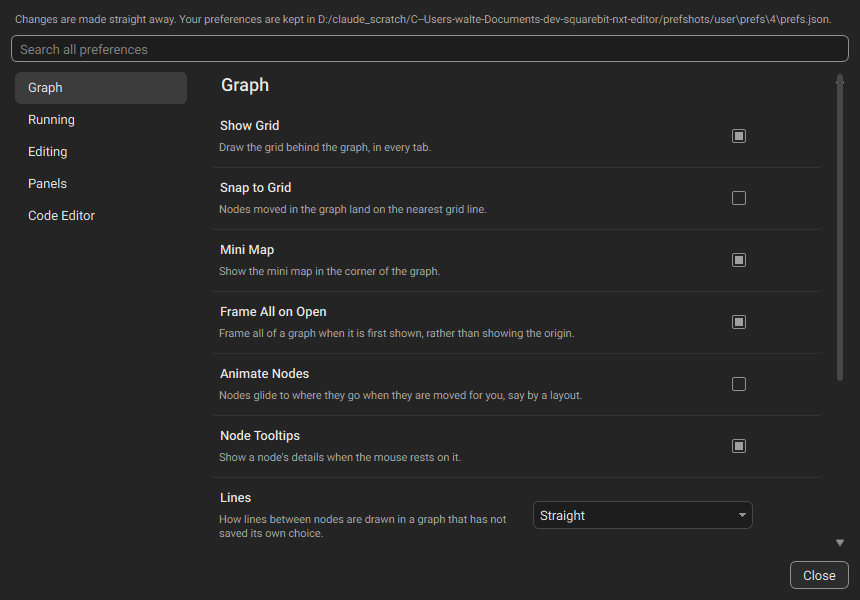
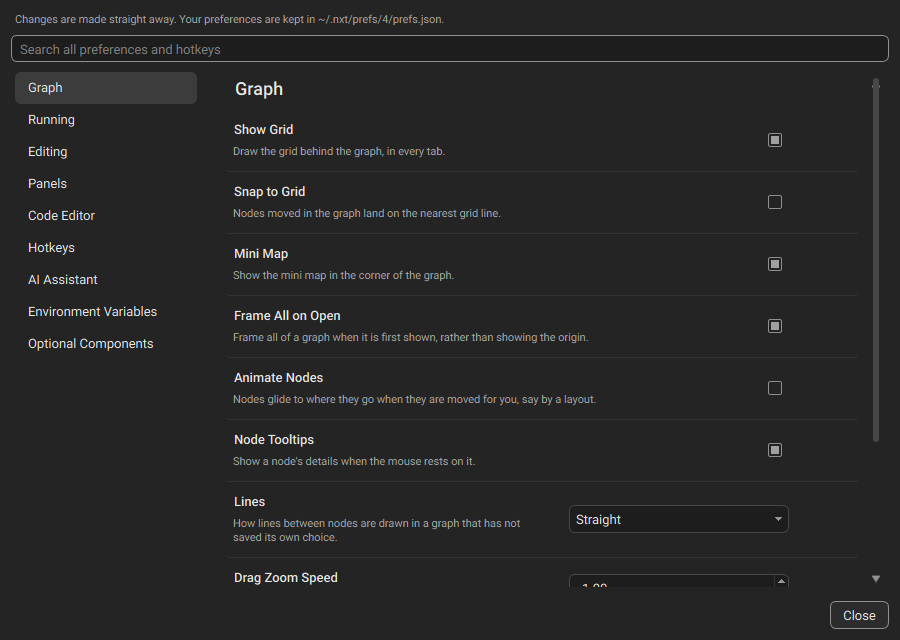
Docs and messages for Edit > Preferences
Every page, message and comment that sent people to the Options menu
now names Edit > Preferences and the section or page, and What's New
says what moved. Hotkeys has a picture and how to record one, and the
Preferences, search, Environment Variables, Optional Components and
Autocomplete pictures are retaken.

Claude-Session: https://claude.ai/code/session_01L3sBgXZyPfyXoG9XL5jphw

diff --git a/nxt_editor/ai/providers.py b/nxt_editor/ai/providers.py
@@ -75,8 +75,8 @@ PLAN_ERRORS = {
         'ChatGPT could not check your plan just now. Try again in a '
         'minute.',
     'subscription_sharing_invalid_user':
-        'ChatGPT did not accept your sign in. Sign in again in Options > '
-        'AI Assistant.',
+        'ChatGPT did not accept your sign in. Sign in again in Edit > '
+        'Preferences > AI Assistant.',
     'subscription_sharing_unsupported_capability':
         'A ChatGPT plan can not do part of this request.',
     'subscription_sharing_route_not_supported':
@@ -100,11 +100,11 @@ def explain(err, label, auth=None):
     if err.status in (401, 403):
         if kind == WEB:
             return ('{} did not accept your sign in. Sign in again in '
-                    'Options > AI Assistant. ({})'.format(label, err))
+                    'Edit > Preferences > AI Assistant. ({})'.format(label, err))
         if kind in (KEY, ENV):
             where = auth.label if kind == ENV else 'the saved API key'
             return ('{} did not accept {}. Check the key, or paste a new '
-                    'one in Options > AI Assistant. ({})'.format(
+                    'one in Edit > Preferences > AI Assistant. ({})'.format(
                         label, where, err))
     if err.status == 429:
         return ('{} says too many requests or the plan is used up. Wait a '
@@ -295,13 +295,13 @@ class Provider(object):
             return record
         if not record.get('refresh_token'):
             raise AuthError('Your {} sign in ran out. Sign in again in '
-                            'Options > AI Assistant.'.format(self.label))
+                            'Edit > Preferences > AI Assistant.'.format(self.label))
         try:
             record = self._refresh(record)
         except web.WebError as err:
             if err.status in (400, 401, 403):
                 raise AuthError('Your {} sign in ran out. Sign in again in '
-                                'Options > AI Assistant.'.format(self.label))
+                                'Edit > Preferences > AI Assistant.'.format(self.label))
             raise
         self.store.set(self._web_name, record)
         return record
@@ -326,7 +326,7 @@ class Provider(object):
         auth = auth or self.auth()
         if not auth:
             raise AuthError('{} is not set up. Sign in or add an API key in '
-                            'Options > AI Assistant.'.format(self.label))
+                            'Edit > Preferences > AI Assistant.'.format(self.label))
         return auth
 
     def list_models(self, auth=None):
@@ -776,10 +776,10 @@ class Codex(Provider):
         if not auth:
             if not self.cli:
                 raise AuthError('Codex is not installed. Install it, then '
-                                'sign in with Codex in Options > AI '
+                                'sign in with Codex in Edit > Preferences > AI '
                                 'Assistant.')
             raise AuthError('Codex is not signed in. Sign in with Codex in '
-                            'Options > AI Assistant.')
+                            'Edit > Preferences > AI Assistant.')
         return auth
 
     def start_sign_in(self):
@@ -978,7 +978,7 @@ class Local(Provider):
     def _require_auth(self, auth):
         auth = auth or self.auth()
         if not auth:
-            raise AuthError('Choose a local server in Options > AI '
+            raise AuthError('Choose a local server in Edit > Preferences > AI '
                             'Assistant.')
         return auth
 

diff --git a/nxt_editor/dockwidgets/ai_assistant.py b/nxt_editor/dockwidgets/ai_assistant.py
@@ -1,7 +1,7 @@
 """The AI Assistant panel: chat with Claude, OpenAI or Grok about the graph.
 
 Only in the Window menu once the assistant is turned on in
-Options > AI Assistant. Every chat is kept, so New Chat does not lose the
+Edit > Preferences > AI Assistant. Every chat is kept, so New Chat does not lose the
 last one. The list of chats goes back to any of them, and right clicking
 one pins it to the top or deletes it.
 
@@ -254,7 +254,7 @@ class AiAssistant(DockWidgetBase):
         self.always_button = _button('Always allow', 'aiGhost')
         self.always_button.setToolTip(
             'Let it read this folder in every chat. It is remembered in '
-            'Options > AI Assistant > Memory, where you can take it back.')
+            'Edit > Preferences > AI Assistant > Memory, where you can take it back.')
         self.always_button.clicked.connect(
             lambda: self.answer_access(tools.ALWAYS))
         self.deny_button = _button('Deny', 'aiGhost')

diff --git a/nxt_editor/commands.py b/nxt_editor/commands.py
@@ -1145,7 +1145,7 @@ class RevertNode(DeleteNode):
 
 def refactor_attr_rename(stage):
     """Whether renaming an attr updates the tokens that point at it: on
-    unless turned off in Options, and with an nxt_core that can."""
+    unless turned off in Preferences, and with an nxt_core that can."""
     return (hasattr(stage, 'get_attr_ref_changes') and
             user_dir.user_prefs.get(user_dir.USER_PREF.REFACTOR_ATTR_RENAME,
                                     True))
@@ -1153,7 +1153,7 @@ def refactor_attr_rename(stage):
 
 def refactor_instance_paths(stage):
     """Whether parenting nodes updates the instance paths that point at
-    them: on unless turned off in Options, and with an nxt_core that
+    them: on unless turned off in Preferences, and with an nxt_core that
     can."""
     return (hasattr(stage, 'retarget_instance_paths') and
             user_dir.user_prefs.get(

diff --git a/nxt_editor/optional_components.py b/nxt_editor/optional_components.py
@@ -1,4 +1,4 @@
-"""Options > Optional Components: install the extras the editor can use.
+"""Edit > Preferences > Optional Components: install the extras the editor can use.
 
 One card per component, saying whether it is there and offering the one
 thing that makes sense to do next: Install, Update or Remove. pip runs in a
@@ -759,7 +759,7 @@ def html(text):
 
 
 class OptionalComponentsDialog(QtWidgets.QDialog):
-    """Options > Optional Components."""
+    """Edit > Preferences > Optional Components."""
     #: a component was installed, updated or removed, by its id
     changed = QtCore.Signal(str)
 

diff --git a/nxt_editor/test/test_color_range.py b/nxt_editor/test/test_color_range.py
@@ -4,7 +4,7 @@ Raw, the default, shows every color as it is. White-text safe shows a color
 too light for white text darker. Even shows every color at one OKLCH
 lightness and chroma, keeping its hue. Stored colors are never rewritten
 for it, so changing the range loses nothing, and choosing a layer's color
-in Change Color is the same whatever the view. View > Options > Layer Color
+in Change Color is the same whatever the view. Window > Layer Color
 View sets it, with a live preview, and remembers it on OK; Cancel puts the
 range back and Reset to Default goes back to what nxt ships with.
 """

diff --git a/nxt_editor/ai/codex.py b/nxt_editor/ai/codex.py
@@ -307,7 +307,7 @@ def _explain(message):
     lower = message.lower()
     if '401' in lower or 'unauthorized' in lower or 'not logged in' in lower:
         return ('Codex is not signed in, or its sign in ran out. Sign in '
-                'with Codex in Options > AI Assistant. ({})'.format(message))
+                'with Codex in Edit > Preferences > AI Assistant. ({})'.format(message))
     if 'address already in use' in lower or 'port' in lower and \
             'in use' in lower:
         return ('Another Codex sign in is already waiting. Finish or close '

diff --git a/nxt_editor/dockwidgets/code_completion.py b/nxt_editor/dockwidgets/code_completion.py
@@ -11,7 +11,7 @@ python analyser:
   so cmds. completes before an import line is written. Only modules the
   host has already loaded are offered; nothing is imported for them,
   because importing pymel alone can take seconds.
-- jedi, when it is installed: from Options > Optional Components, or with
+- jedi, when it is installed: from Edit > Preferences > Optional Components, or with
   pip install nxt-editor[completion]. It knows what a name is, so it can
   complete what a call returns or what a local variable holds, which
   reading import lines cannot.

diff --git a/nxt_editor/integration/blender/nxt_blender.py b/nxt_editor/integration/blender/nxt_blender.py
@@ -14,7 +14,7 @@ how it is developed.
 **Qt.** Blender ships no Qt and the editor is a Qt application, so PySide6
 has to be installed once; the menu offers to do it, into a folder outside
 Blender (see ``nxt_editor/integration/optional_deps.py``). The editor's
-Options > Optional Components does the rest, jedi say. Graphs run without
+Edit > Preferences > Optional Components does the rest, jedi say. Graphs run without
 it. Only the editor window needs it.
 
 **No menu.** ``NXT_NO_MENU=1`` leaves the menu out, by the same rule as

diff --git a/nxt_editor/ai/settings_dialog.py b/nxt_editor/ai/settings_dialog.py
@@ -1,4 +1,4 @@
-"""Options > AI Assistant: turn the assistant on and sign in to providers."""
+"""Edit > Preferences > AI Assistant: turn the assistant on and sign in to providers."""
 # Builtin
 import logging
 import os
@@ -878,7 +878,7 @@ def scrolling(page):
 
 
 class AiSettingsDialog(QtWidgets.QDialog):
-    """Options > AI Assistant.
+    """Edit > Preferences > AI Assistant.
 
     What turns it on and says what it does stays at the top, and Close at
     the bottom. Between them each tab scrolls, and each provider is a

diff --git a/nxt_editor/integration/unreal/Content/Python/nxt_unreal_menu.py b/nxt_editor/integration/unreal/Content/Python/nxt_unreal_menu.py
@@ -13,7 +13,7 @@ and needed internet access and write access to the engine.
 Unreal ships no Qt, so PySide6 is installed once, into a folder outside the
 engine; the menu offers to do it. See nxt_editor/integration/optional_deps.py.
 The other optional components, jedi say, are installed from the editor's
-Options > Optional Components.
+Edit > Preferences > Optional Components.
 
 NXT_NO_MENU=1 leaves the menu out, by the same rule as Maya and Blender.
 Everything the menu does is still here to call, for example

diff --git a/nxt_editor/layer_color_dialog.py b/nxt_editor/layer_color_dialog.py
@@ -206,7 +206,7 @@ class LayerColorDialog(QtWidgets.QDialog):
         self.view_preview.setFixedWidth(110)
         self.view_preview.label = 'In your view'
         self.view_preview.setToolTip(
-            'How this color looks in your Layer Color View, View > Options. '
+            'How this color looks in your Layer Color View, in the Window menu. '
             'The layer is given the color on the left.')
         bottom.addWidget(self.view_preview)
         self.hex_edit = QtWidgets.QLineEdit()

diff --git a/nxt_editor/color_range.py b/nxt_editor/color_range.py
@@ -13,7 +13,7 @@ another; white text may read less well.
 Colors are never rewritten for the range. A layer's or backdrop's stored
 color is shown through it, so changing the range, or going back to the
 default, loses nothing, and a teammate on another range sees the same file
-in theirs. View > Options > Layer Color View sets it, see color_range_dialog.
+in theirs. Window > Layer Color View sets it, see color_range_dialog.
 """
 # External
 from Qt import QtGui
